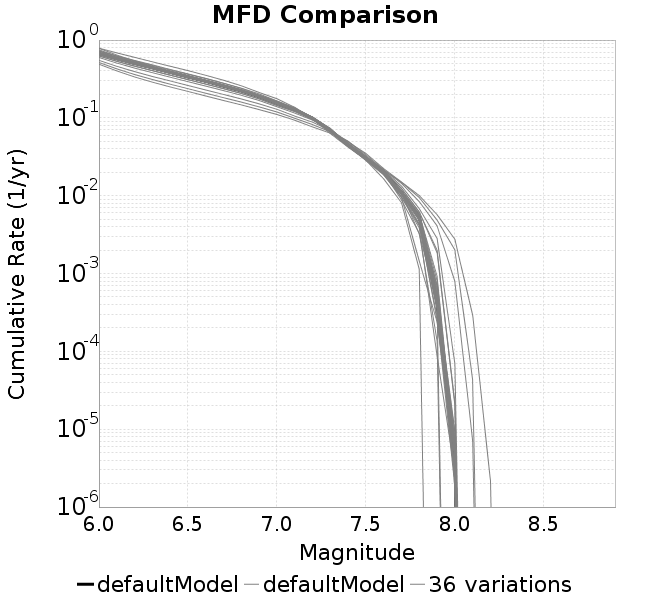
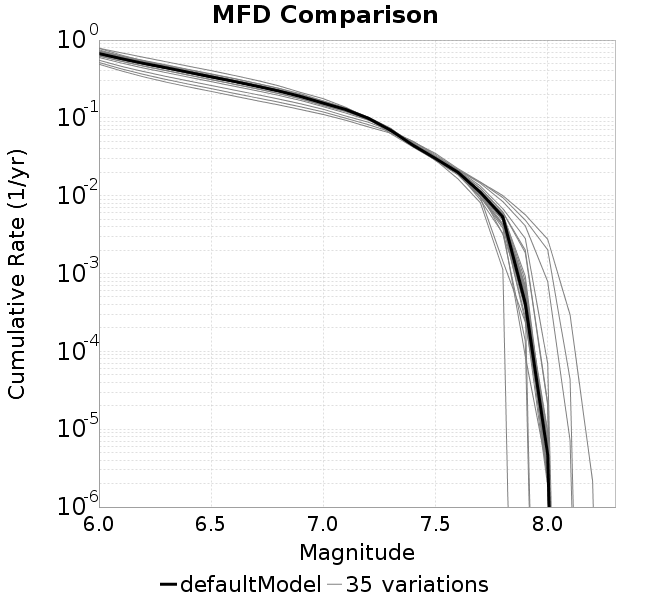
new MFDs

diff --git a/2018_param_sweep/index.html b/2018_param_sweep/index.html
@@ -13,7 +13,7 @@ img {
 </style>
 </head>
 <body>
-<h1 id="rsqsim-catalog-analysis">RSQSim Catalog Analysis</h1>
+<h1 id="rsqsim-catalogs-analysis">RSQSim Catalogs Analysis</h1>
 <table>
 <thead>
 <tr><th>Date</th><th>Name</th><th>Duration</th><th>Element Area</th><th>Description</th></tr>
@@ -57,5 +57,9 @@ img {
 <tr><td>2018/09/27</td><td><a href="defaultModel#defaultmodel">defaultModel</a></td><td>217,822 yrs</td><td>1.35 km</td><td>default model setup</td></tr>
 </tbody>
 </table>
+<h2 id="multi-catalog-plots">Multi-Catalog Plots</h2>
+<p>Baseline catalog: <a href="defaultModel#defaultmodel">defaultModel</a></p>
+<h3 id="mfds">MFDs</h3>
+<p><img src="resources/mfds.png" alt="MFDs" /></p>
 </body>
 </html>

diff --git a/2018_param_sweep/README.md b/2018_param_sweep/README.md
@@ -1,4 +1,4 @@
-# RSQSim Catalog Analysis
+# RSQSim Catalogs Analysis
 
 | Date | Name | Duration | Element Area | Description |
 |-----|-----|-----|-----|-----|
@@ -38,3 +38,10 @@
 | 2018/09/27 | [ddot2](ddot2#ddot2) | 420,676 yrs | 1.35 km | change ddotEQ: ddotEQ=2 |
 | 2018/09/27 | [ddot1_5](ddot1_5#ddot15) | 427,578 yrs | 1.35 km | change ddotEQ: ddotEQ=1.5 |
 | 2018/09/27 | [defaultModel](defaultModel#defaultmodel) | 217,822 yrs | 1.35 km | default model setup |
+## Multi-Catalog Plots
+
+Baseline catalog: [defaultModel](defaultModel#defaultmodel)
+
+### MFDs
+
+![MFDs](resources/mfds.png)
